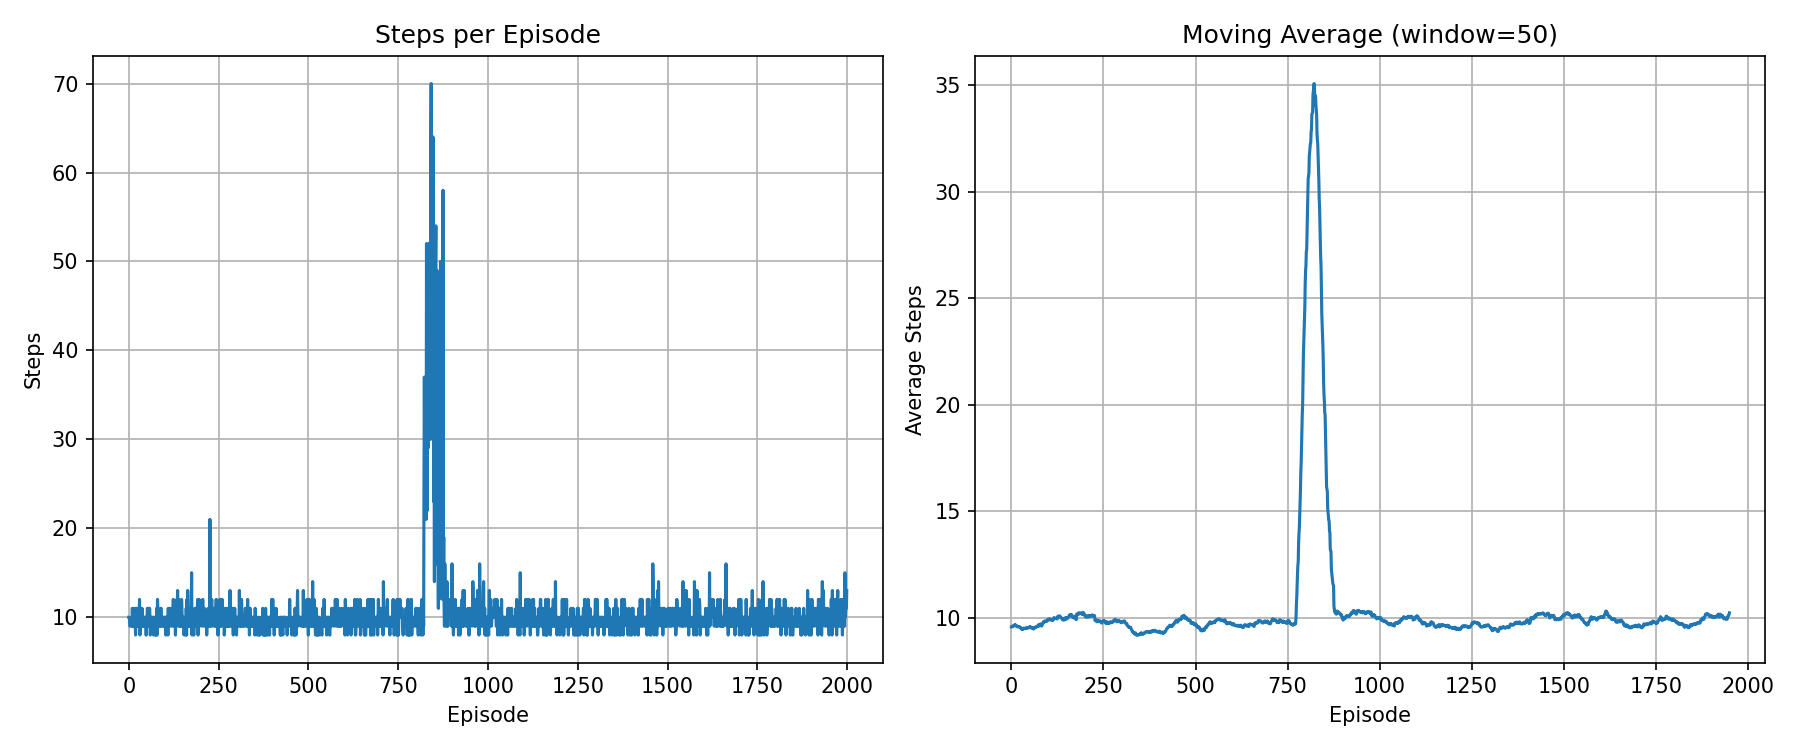
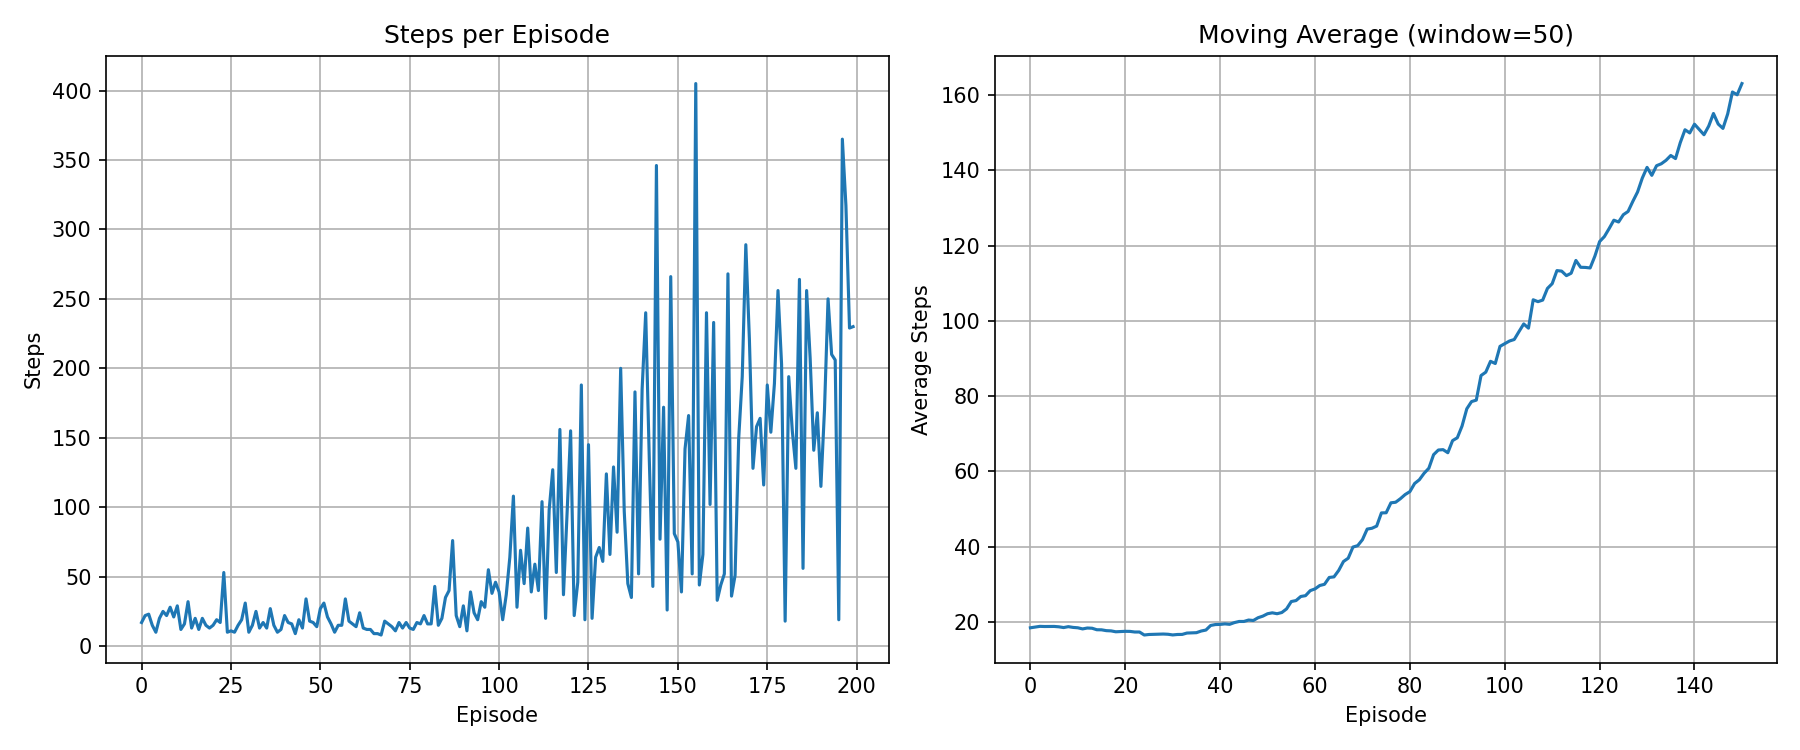
Update DQN implementation and add pseudocode diagrams

diff --git a/DQN/DQN_cartpole.py b/DQN/DQN_cartpole.py
@@ -29,7 +29,7 @@ num_action = env.action_space.n
 torch.manual_seed(seed)
 np.random.seed(seed)
 
-Transition = namedtuple('Transition', ['state', 'action', 'reward', 'next_state'])
+Transition = namedtuple('Transition', ['state', 'action', 'reward', 'next_state', 'done'])
 
 class Net(nn.Module):
     def __init__(self):
@@ -51,6 +51,9 @@ class DQN():
     batch_size = 256
     gamma = 0.995
     update_count = 0
+    epsilon = 1.0  # Start with full exploration
+    epsilon_min = 0.01
+    epsilon_decay = 0.995
 
     def __init__(self):
         super(DQN, self).__init__()
@@ -66,7 +69,7 @@ class DQN():
         value = self.act_net(state)
         action_max_value, index = torch.max(value, 1)
         action = index.item()
-        if np.random.rand(1) >= 0.9: # epslion greedy
+        if np.random.rand(1) < self.epsilon: # epsilon greedy with decay
             action = np.random.choice(range(num_action), 1).item()
         return action
 
@@ -85,14 +88,18 @@ class DQN():
             indices = np.random.choice(memory_size, self.batch_size, replace=False)
             batch = [self.memory[i] for i in indices]
             
-            state = torch.tensor([t.state for t in batch]).float().to(device)
-            action = torch.LongTensor([t.action for t in batch]).view(-1,1).long().to(device)
-            reward = torch.tensor([t.reward for t in batch]).float().to(device)
-            next_state = torch.tensor([t.next_state for t in batch]).float().to(device)
+            # Convert to tensors efficiently
+            state = torch.tensor(np.array([t.state for t in batch]), dtype=torch.float).to(device)
+            action = torch.LongTensor([t.action for t in batch]).view(-1,1).to(device)
+            reward = torch.tensor([t.reward for t in batch], dtype=torch.float).to(device)
+            next_state = torch.tensor(np.array([t.next_state for t in batch]), dtype=torch.float).to(device)
+            done = torch.tensor([t.done for t in batch], dtype=torch.float).to(device)
 
-            reward = (reward - reward.mean()) / (reward.std() + 1e-7)
+            # Bellman equation: Q(s,a) = r + γ * max Q(s',a') for non-terminal states
+            # For terminal states (done=True), Q(s,a) = r only (no future value!)
             with torch.no_grad():
-                target_v = reward + self.gamma * self.target_net(next_state).max(1)[0]
+                next_q_values = self.target_net(next_state).max(1)[0]
+                target_v = reward + self.gamma * next_q_values * (1 - done)
 
             # Single gradient update
             current_v = self.act_net(state).gather(1, action).squeeze()
@@ -113,6 +120,7 @@ def main():
 
     agent = DQN()
     episode_steps = []
+    solved_threshold = 195.0  # CartPole-v0 is considered solved at 195 average reward
     
     pbar = tqdm(range(num_episodes), desc="Training DQN")
     for i_ep in pbar:
@@ -123,44 +131,40 @@ def main():
             next_state, reward, terminated, truncated, info = env.step(action)
             done = terminated or truncated
             if render: env.render()
-            transition = Transition(state, action, reward, next_state)
+            transition = Transition(state, action, reward, next_state, done)
             agent.store_transition(transition)
+            
+            # Update network every step (not just at episode end)
+            loss = agent.update()
+            
             state = next_state
             if done or t >=9999:
                 agent.writer.add_scalar('live/finish_step', t+1, global_step=i_ep)
                 episode_steps.append(t+1)
-                loss = agent.update()
+                
+                # Decay epsilon after each episode
+                agent.epsilon = max(agent.epsilon_min, agent.epsilon * agent.epsilon_decay)
                 
                 # Update progress bar
                 avg_steps = np.mean(episode_steps[-100:]) if len(episode_steps) > 0 else 0
-                pbar.set_postfix({'steps': t+1, 'avg_100': f'{avg_steps:.1f}', 'memory': agent.memory_count})
+                pbar.set_postfix({'steps': t+1, 'avg_100': f'{avg_steps:.1f}', 'eps': f'{agent.epsilon:.3f}'})
+                
+                # Check if solved (need at least 100 episodes)
+                if len(episode_steps) >= 100 and avg_steps >= solved_threshold:
+                    print(f"\n🎉 Environment SOLVED in {i_ep+1} episodes!")
+                    print(f"Average score over last 100 episodes: {avg_steps:.2f} >= {solved_threshold}")
+                    pbar.close()
+                    return
+                
                 break
     
-    # Plot results
-    plt.figure(figsize=(12, 5))
-    
-    # Plot episode steps
-    plt.subplot(1, 2, 1)
-    plt.plot(episode_steps)
-    plt.xlabel('Episode')
-    plt.ylabel('Steps')
-    plt.title('Steps per Episode')
-    plt.grid(True)
-    
-    # Plot moving average
-    plt.subplot(1, 2, 2)
-    window_size = 50
-    moving_avg = np.convolve(episode_steps, np.ones(window_size)/window_size, mode='valid')
-    plt.plot(moving_avg)
-    plt.xlabel('Episode')
-    plt.ylabel('Average Steps')
-    plt.title(f'Moving Average (window={window_size})')
-    plt.grid(True)
-    
-    plt.tight_layout()
-    plt.savefig('DQN_training_results.png', dpi=150)
-    plt.show()
-    print(f"Training complete! Plot saved as 'DQN_training_results.png'")
+    # Training completed all episodes
+    final_avg = np.mean(episode_steps[-100:]) if len(episode_steps) >= 100 else np.mean(episode_steps)
+    print(f"\nTraining complete! Final average (last 100 episodes): {final_avg:.2f}")
+    if final_avg >= solved_threshold:
+        print(f"✓ Environment SOLVED!")
+    else:
+        print(f"✗ Not solved. Gap: {solved_threshold - final_avg:.2f} steps")
 
 if __name__ == '__main__':
     main()
